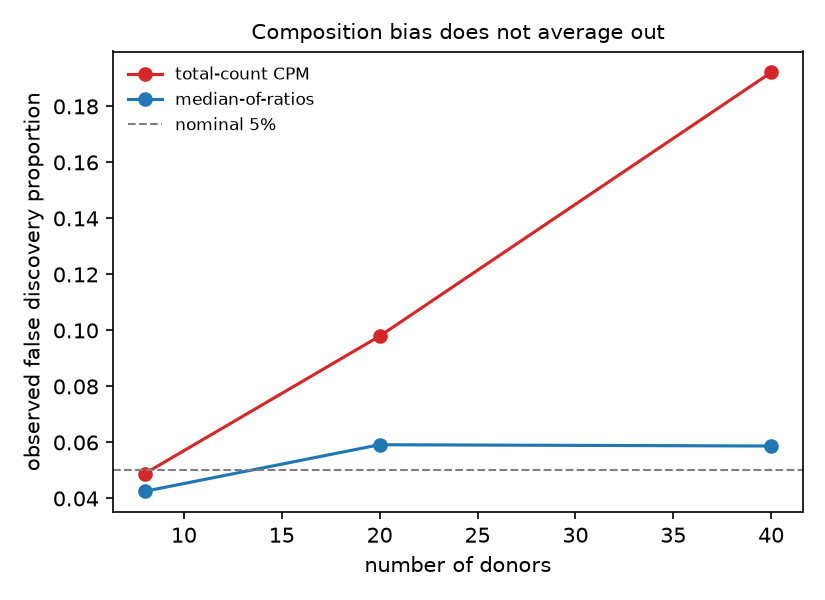
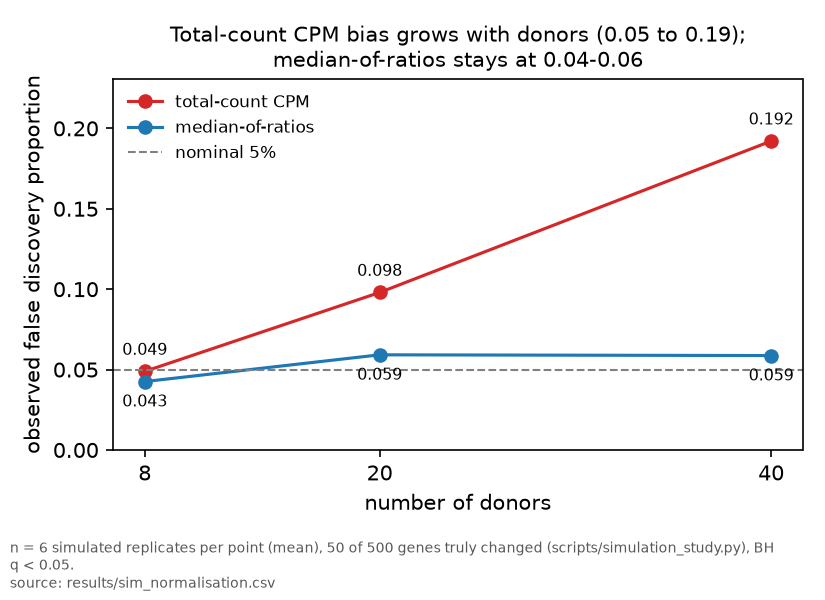
style(figures): finding-style titles computed from the CSVs, value labels, n and source artefact on the six original figures

diff --git a/scripts/make_figures.py b/scripts/make_figures.py
@@ -33,6 +33,12 @@ FIG = ROOT / "figures"
 FIG.mkdir(exist_ok=True)
 RESULTS = ROOT / "results"
 
+# Replicate counts that scripts/simulation_study.py hard-codes (its CSVs store
+# means only): experiment_sample_variation uses range(5), experiment_normalisation
+# range(6).
+SWEEP_REPS = 5
+NORM_REPS = 6
+
 
 def _need(name):
     path = RESULTS / name
@@ -99,24 +105,38 @@ def fig_null():
     """False positives when nothing changes."""
     df = _need("sim_null.csv")
     n_genes = int(df["n_genes"].iloc[0])
+    bh = _maybe("bh_null_expectation.csv", "scripts/bh_null_expectation.py")
 
     fig, ax = plt.subplots(figsize=(5.5, 4))
     x = np.arange(len(df))
     ax.bar(x - 0.2, df["per_cell"], width=0.4, label="per-cell Wilcoxon",
            color="C3", edgecolor="black", linewidth=0.5)
-    ax.bar(x + 0.2, df["pseudobulk"], width=0.4, label="pseudobulk",
+    ax.bar(x + 0.2, df["pseudobulk"], width=0.4, label="pseudobulk paired t",
            color="C0", edgecolor="black", linewidth=0.5)
     ax.axhline(0.05 * n_genes, ls="--", lw=1, color="grey",
-               label="5% of genes tested")
-    ax.set(xlabel="simulation replicate", ylabel="genes called significant",
-           title=f"False positives on null data ({n_genes} genes, nothing changed)")
+               label=f"{0.05 * n_genes:.0f} = 5% of genes (uncorrected p < 0.05)")
+    ax.set(xlabel="simulation replicate",
+           ylabel=f"genes called significant\n(of {n_genes}, BH q < 0.05)",
+           title="Nothing changed, yet per-cell Wilcoxon calls "
+                 f"{df['per_cell'].mean() / n_genes:.0%} of genes;\n"
+                 f"pseudobulk calls {df['pseudobulk'].mean() / n_genes:.0%}")
     ax.title.set_fontsize(10)
     ax.set_xticks(x)
     ax.set_xticklabels(df["rep"] + 1)
-    ax.legend(frameon=False, fontsize=8)
-    fig.tight_layout()
-    fig.savefig(FIG / "null_false_positives.png", dpi=150)
-    plt.close(fig)
+    for xi, v in zip(x + 0.2, df["pseudobulk"]):
+        ax.text(xi, v + 6, f"{v:.0f}", ha="center", va="bottom", fontsize=7)
+    ax.set_ylim(0, df["per_cell"].max() * 1.5)
+    ax.legend(frameon=False, fontsize=8, loc="upper right")
+    note = ""
+    if bh is not None:
+        note = (f" Under BH an exact null gives a mean of "
+                f"{bh['mean_rejections'].iloc[0]:.3f} calls, not "
+                f"{0.05 * n_genes:.0f}.")
+    _save(fig, "null_false_positives.png",
+          f"n = {len(df)} simulated replicates, {n_genes} genes, 0 truly changed; "
+          f"mean per-cell {df['per_cell'].mean():.1f} ({df['per_cell'].mean() / n_genes:.1%}), "
+          f"pseudobulk {df['pseudobulk'].mean():.1f}.{note}\n"
+          "source: results/sim_null.csv, results/bh_null_expectation.csv")
 
 
 def fig_power():
@@ -128,30 +148,53 @@ def fig_power():
 
     methods = list(agg.index)
     x = np.arange(len(methods))
+    n_true = int((df["tp"] + df["fn"]).iloc[0])
     axes[0].bar(x - 0.2, agg["tp"], width=0.4, label="true positives",
                 color="C0", edgecolor="black", linewidth=0.5)
     axes[0].bar(x + 0.2, agg["fp"], width=0.4, label="false positives",
                 color="C3", edgecolor="black", linewidth=0.5)
-    axes[0].axhline(50, ls="--", lw=1, color="grey", label="50 genes truly changed")
+    for off, col in ((-0.2, "tp"), (0.2, "fp")):
+        for xi, v in zip(x + off, agg[col]):
+            axes[0].text(xi, v + 5, f"{v:.1f}", ha="center", va="bottom",
+                         fontsize=7.5)
+    axes[0].axhline(n_true, ls="--", lw=1, color="grey",
+                    label=f"{n_true} genes truly changed")
+    names = {"per_cell": "per-cell Wilcoxon", "pseudobulk": "pseudobulk paired t"}
     axes[0].set_xticks(x)
-    axes[0].set_xticklabels(methods)
-    axes[0].set_ylabel("genes")
-    axes[0].set_title("What each method calls", fontsize=10)
-    axes[0].legend(frameon=False, fontsize=8)
+    axes[0].set_xticklabels([names.get(m, m) for m in methods])
+    axes[0].set_ylim(0, agg[["tp", "fp"]].to_numpy().max() * 1.3)
+    axes[0].set_ylabel("genes called (mean per replicate)")
+    axes[0].set_title(
+        f"Both find the true genes ({agg.at['per_cell', 'tp']:.1f} and "
+        f"{agg.at['pseudobulk', 'tp']:.1f} of {n_true});\n"
+        f"per-cell adds {agg.at['per_cell', 'fp']:.1f} false calls, pseudobulk "
+        f"{agg.at['pseudobulk', 'fp']:.1f}", fontsize=10)
+    axes[0].legend(frameon=False, fontsize=8, loc="upper right")
 
     axes[1].bar(x, agg["fdp"], width=0.5,
                 color=["C3" if m == "per_cell" else "C0" for m in methods],
                 edgecolor="black", linewidth=0.5)
+    for xi, v in zip(x, agg["fdp"]):
+        axes[1].text(xi, v + 0.02, f"{v:.2f}", ha="center", va="bottom",
+                     fontsize=9, fontweight="bold")
     axes[1].axhline(0.05, ls="--", lw=1, color="grey", label="nominal 5%")
     axes[1].set_xticks(x)
-    axes[1].set_xticklabels(methods)
+    axes[1].set_xticklabels([names.get(m, m) for m in methods])
+    axes[1].set_ylim(0, 1.05)
     axes[1].set_ylabel("observed false discovery proportion")
-    axes[1].set_title("Both have ~100% power", fontsize=10)
-    axes[1].legend(frameon=False, fontsize=8)
+    axes[1].set_title(
+        "Observed false discovery proportion:\n"
+        f"per-cell {agg.at['per_cell', 'fdp']:.2f}, pseudobulk "
+        f"{agg.at['pseudobulk', 'fdp']:.2f} (power {agg.at['per_cell', 'power']:.2f} "
+        f"vs {agg.at['pseudobulk', 'power']:.2f})", fontsize=10)
+    axes[1].legend(frameon=False, fontsize=8, loc="upper right")
 
-    fig.tight_layout()
-    fig.savefig(FIG / "power_vs_fdp.png", dpi=150)
-    plt.close(fig)
+    n_genes = int((df["tp"] + df["fp"] + df["fn"] + df["tn"]).iloc[0])
+    _save(fig, "power_vs_fdp.png",
+          f"n = {df['rep'].nunique()} simulated replicates per method, {n_true} of "
+          f"{n_genes} genes given a real 2-fold effect (scripts/simulation_study.py), "
+          "BH q < 0.05; bars are means.\n"
+          "source: results/sim_power.csv")
 
 
 def fig_sample_sweep():
@@ -162,16 +205,22 @@ def fig_sample_sweep():
     ax.plot(df["sample_sd"], df["per_cell"], "o-", color="C3",
             label="per-cell Wilcoxon")
     ax.plot(df["sample_sd"], df["pseudobulk"], "o-", color="C0",
-            label="pseudobulk")
+            label="pseudobulk paired t")
+    for sd, v in zip(df["sample_sd"], df["per_cell"]):
+        ax.text(sd, v + 12, f"{v:.1f}", ha="center", va="bottom", fontsize=7.5)
+    first, last = df.iloc[0], df.iloc[-1]
     ax.set(xlabel="sample-level variation (donor x condition, log SD)",
-           ylabel="false positives (of 500 null genes)",
-           title="Per-cell testing is valid only when samples differ by\n"
-                 "sampling noise alone")
+           ylabel="false positives (of 500 null genes, BH q < 0.05)",
+           title=f"Per-cell false positives rise from {first['per_cell']:.0f} to "
+                 f"{last['per_cell']:.0f} as sample-level\n"
+                 f"variation grows; pseudobulk stays at {df['pseudobulk'].max():.0f}")
     ax.title.set_fontsize(10)
-    ax.legend(frameon=False, fontsize=8)
-    fig.tight_layout()
-    fig.savefig(FIG / "sample_variation_sweep.png", dpi=150)
-    plt.close(fig)
+    ax.set_ylim(-15, df["per_cell"].max() * 1.15)
+    ax.legend(frameon=False, fontsize=8, loc="center right")
+    _save(fig, "sample_variation_sweep.png",
+          f"n = {len(df)} sample-SD values, mean of {SWEEP_REPS} simulated replicates "
+          "each (scripts/simulation_study.py); 500 null genes, nothing truly changed.\n"
+          "source: results/sim_sample_sweep.csv")
 
 
 def fig_normalisation():
@@ -185,15 +234,26 @@ def fig_normalisation():
                 color="C3" if norm == "cpm" else "C0",
                 label="total-count CPM" if norm == "cpm"
                       else "median-of-ratios")
+        for n, v in zip(g["n_donors"], g["fdp"]):
+            ax.text(n, v + (0.008 if norm == "cpm" else -0.008), f"{v:.3f}",
+                    ha="center", va="bottom" if norm == "cpm" else "top",
+                    fontsize=7.5)
     ax.axhline(0.05, ls="--", lw=1, color="grey", label="nominal 5%")
+    cpm = df[df["normalisation"] == "cpm"].sort_values("n_donors")
+    mor = df[df["normalisation"] == "median_ratio"]
     ax.set(xlabel="number of donors",
            ylabel="observed false discovery proportion",
-           title="Composition bias does not average out")
+           title="Total-count CPM bias grows with donors "
+                 f"({cpm['fdp'].iloc[0]:.2f} to {cpm['fdp'].iloc[-1]:.2f});\n"
+                 f"median-of-ratios stays at {mor['fdp'].min():.2f}-{mor['fdp'].max():.2f}")
     ax.title.set_fontsize(10)
-    ax.legend(frameon=False, fontsize=8)
-    fig.tight_layout()
-    fig.savefig(FIG / "normalisation.png", dpi=150)
-    plt.close(fig)
+    ax.set_xticks(sorted(df["n_donors"].unique()))
+    ax.set_ylim(0, df["fdp"].max() * 1.2)
+    ax.legend(frameon=False, fontsize=8, loc="upper left")
+    _save(fig, "normalisation.png",
+          f"n = {NORM_REPS} simulated replicates per point (mean), 50 of 500 genes truly "
+          "changed (scripts/simulation_study.py), BH q < 0.05.\n"
+          "source: results/sim_normalisation.csv")
 
 
 def fig_real_null():
@@ -208,19 +268,26 @@ def fig_real_null():
     ax.plot(df["split"] + 1, df["per_cell"], "o-", color="C3",
             label="per-cell Wilcoxon")
     ax.plot(df["split"] + 1, df["pseudobulk"], "o-", color="C0",
-            label="pseudobulk")
+            label="pseudobulk paired t")
     n_genes = int(df["n_genes_sc"].iloc[0])
     ax.axhline(0.05 * n_genes, ls="--", lw=1, color="grey",
-               label=f"5% of {n_genes} genes")
+               label=f"5% of {n_genes:,} genes (uncorrected p < 0.05)")
     ax.set(xlabel="random donor split (control cells only)",
-           ylabel="genes called significant",
-           title="Real data, Kang 2018 CD14+ monocytes:\n"
-                 "donor labels shuffled, so every call is a false positive")
+           ylabel=f"genes called significant\n(of {n_genes:,}, BH q < 0.05)",
+           title="Real data (Kang 2018, CD14+ monocytes), donors shuffled:\n"
+                 f"per-cell calls a median {df['per_cell'].median():.0f} false genes "
+                 f"per split, pseudobulk {df['pseudobulk'].median():.0f}")
     ax.title.set_fontsize(10)
-    ax.legend(frameon=False, fontsize=8)
-    fig.tight_layout()
-    fig.savefig(FIG / "real_null.png", dpi=150)
-    plt.close(fig)
+    ax.set_xticks(df["split"] + 1)
+    ax.legend(frameon=False, fontsize=8, loc="upper right")
+    share = df["per_cell"] / df["n_genes_sc"]
+    _save(fig, "real_null.png",
+          f"n = {len(df)} random donor splits of control cells only "
+          f"({int(df['n_cells'].iloc[0]):,} cells). Per-cell: median "
+          f"{df['per_cell'].median():.0f} ({share.median():.2%} of genes), mean "
+          f"{df['per_cell'].mean():.1f} ({share.mean():.1%}), max {df['per_cell'].max()}; "
+          f"pseudobulk max {df['pseudobulk'].max()}.\n"
+          "source: results/false_positives.csv")
 
 
 def fig_isg_ranking():
@@ -242,12 +309,23 @@ def fig_isg_ranking():
     axes[0].bar(x + 0.2, df["median_isg_rank_by_effect"], width=0.4,
                 label="ranked by effect size", color="C0",
                 edgecolor="black", linewidth=0.5)
+    for off, col in ((-0.2, "median_isg_rank_by_q"),
+                     (0.2, "median_isg_rank_by_effect")):
+        for xi, v in zip(x + off, df[col]):
+            axes[0].text(xi, v * 1.12, f"{v:.0f}", ha="center", va="bottom",
+                         fontsize=7)
     axes[0].set_yscale("log")
+    axes[0].set_ylim(1, df["median_isg_rank_by_q"].max() * 2.5)
     axes[0].set_xticks(x)
     axes[0].set_xticklabels(labels, rotation=35, ha="right", fontsize=8)
-    axes[0].set_ylabel("median rank of known interferon genes")
-    axes[0].set_title("Where the real biology lands in the list", fontsize=10)
-    axes[0].legend(frameon=False, fontsize=8)
+    axes[0].set_ylabel("median rank of known interferon genes\n"
+                       "(among genes significant at BH q < 0.05)")
+    axes[0].set_title(
+        "Ranked by q-value, interferon genes sit at median rank "
+        f"{df['median_isg_rank_by_q'].median():.0f};\n"
+        f"by effect size {df['median_isg_rank_by_effect'].median():.0f} "
+        f"(median over {len(df)} cell types)", fontsize=10)
+    axes[0].legend(frameon=False, fontsize=8, loc="upper right")
 
     axes[1].bar(x - 0.2, df["isgs_top12_by_q"], width=0.4,
                 label="ranked by q-value", color="C3",
@@ -255,15 +333,25 @@ def fig_isg_ranking():
     axes[1].bar(x + 0.2, df["isgs_top12_by_effect"], width=0.4,
                 label="ranked by effect size", color="C0",
                 edgecolor="black", linewidth=0.5)
+    for off, col in ((-0.2, "isgs_top12_by_q"), (0.2, "isgs_top12_by_effect")):
+        for xi, v in zip(x + off, df[col]):
+            axes[1].text(xi, v + 0.15, f"{v}", ha="center", va="bottom", fontsize=7.5)
+    axes[1].set_ylim(0, 13)
     axes[1].set_xticks(x)
     axes[1].set_xticklabels(labels, rotation=35, ha="right", fontsize=8)
-    axes[1].set_ylabel("known interferon genes in the top 12")
-    axes[1].set_title("Of 12 canonical ISGs", fontsize=10)
-    axes[1].legend(frameon=False, fontsize=8)
+    axes[1].set_ylabel("known interferon genes in the top 12 of the list")
+    axes[1].set_title(
+        "Interferon genes among the top 12: "
+        f"{df['isgs_top12_by_q'].sum()} of {12 * len(df)} by q-value,\n"
+        f"{df['isgs_top12_by_effect'].sum()} of {12 * len(df)} by effect size "
+        f"(12 genes x {len(df)} cell types)", fontsize=10)
+    axes[1].legend(frameon=False, fontsize=8, loc="upper right")
 
-    fig.tight_layout()
-    fig.savefig(FIG / "isg_ranking.png", dpi=150)
-    plt.close(fig)
+    _save(fig, "isg_ranking.png",
+          f"n = {len(df)} cell types (5-8 donors each), 12 canonical interferon genes "
+          "per type, paired pseudobulk test. Ranks are within the genes already "
+          "significant at BH q < 0.05 (README 'Which rank').\n"
+          "source: results/real_analysis_summary.csv")
 
 
 def fig_mixed_null():
